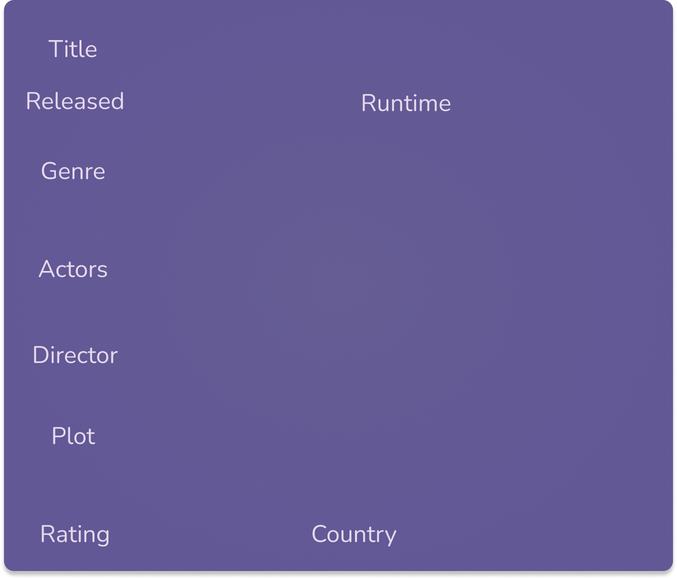
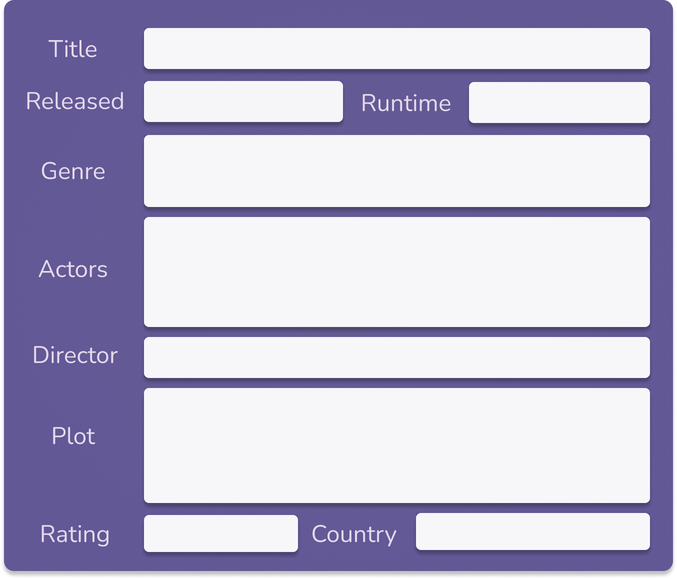
gui_top_working

diff --git a/gui.py b/gui.py
@@ -67,7 +67,8 @@ def getRow(event):
 
     top = Toplevel()
     top.geometry('700x600')
-    top.title(values[0])
+    top.iconbitmap('./assets/movie_ico.ico')
+    top.title(values[0] + ' Datasheet')
 
     canvasTop = Canvas(
         top,
@@ -80,14 +81,115 @@ def getRow(event):
     )
 
     canvasTop.pack()
+
     image_image_4 = PhotoImage(
         file=relative_to_assets("image_4.png"))
-    image_1 = canvasTop.create_image(
+    image_4 = canvasTop.create_image(
         350.0,
         300.0,
         image=image_image_4
     )
 
+    image_image_5 = PhotoImage(
+        file=relative_to_assets("image_5.png"))
+    image_5 = canvasTop.create_image(
+        257.0,
+        475.0,
+        image=image_image_5
+    )
+
+    image_image_6 = PhotoImage(
+        file=relative_to_assets("image_6.png"))
+    image_6 = canvasTop.create_image(
+        349.0,
+        298.0,
+        image=image_image_6
+    )
+
+    label_1 = ttk.Label(
+        top,
+        background='#FFFFFF',
+        font='Nunito 12',
+        text=values[0] # Title
+    )
+    
+    label_1.place(
+        x=165, 
+        y=38,
+        width=495.0,
+        height=38.0
+        )
+
+    label_2 = ttk.Label(
+        top,
+        background='#FFFFFF',
+        font='Nunito 12',
+        text=values[4] # Director
+    )
+    
+    label_2.place(
+        x=165, 
+        y=348,
+        width=495.0,
+        height=38.0
+        )
+
+    label_3 = ttk.Label(
+        top,
+        background='#FFFFFF',
+        font='Nunito 12',
+        text=values[1] # Released
+    )
+    
+    label_3.place(
+        x=165, 
+        y=92,
+        width=188.0,
+        height=38.0
+        )
+
+    label_4 = ttk.Label(
+        top,
+        background='#FFFFFF',
+        font='Nunito 12',
+        text=values[5] # Rating
+    )
+    
+    label_4.place(
+        x=165, 
+        y=525,
+        width=140.0,
+        height=35.0
+        )
+
+    label_5 = ttk.Label(
+        top,
+        background='#FFFFFF',
+        font='Nunito 12',
+        text='#VALUE#' # Country
+    )
+    
+    label_5.place(
+        x=435, 
+        y=523,
+        width=200.0,
+        height=35.0
+        )
+
+    label_5 = ttk.Label(
+        top,
+        background='#FFFFFF',
+        font='Nunito 12',
+        text=values[2] # Runtime
+    )
+    
+    label_5.place(
+        x=490, 
+        y=92,
+        width=155.0,
+        height=38.0
+        )
+    
     top.mainloop()
 
 window = ThemedTk(theme='breeze')
